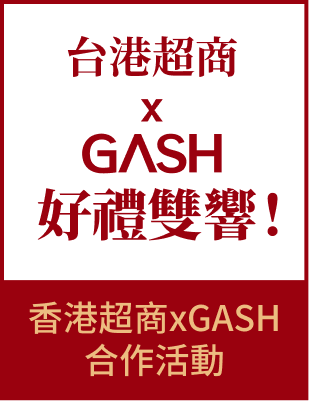
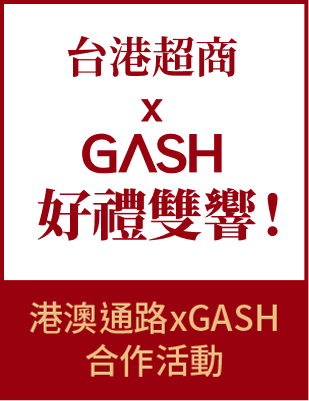
update

Changed region(s): [[0.0874, 0.7481, 0.9029, 0.9576]]

diff --git a/src/index.html b/src/index.html
@@ -52,10 +52,10 @@
       <section>
         <ul>
           <li>
-            <a href="" hash-target="#store">台港超商</a>
+            <span hash-target="#store">台港超商</span>
           </li>
           <li>
-            <a href="" hash-target="#shop">GASH商城</a>
+            <span hash-target="#shop">GASH商城</span>
           </li>
           <li><a href="./gamelist.html" target="_blank">遊戲主打星</a></li>
         </ul>
@@ -179,7 +179,10 @@
             </div>
             <ul>
               <li>
-                【5%點數回贈】兌換限制：每個帳號每個面額限領一次。限定使用指定通路單筆購買之指定GASH點數(500/1000/3000/5000/10000/20000點)、怪物彈珠專用卡(999/1500/2250點)、蒼天英雄誌2專用卡1000點、超異域公主連結增量專用卡(1000/3000點)，並直接儲值至遊戲內，儲值於GASH會員錢包不列入計算。（非港澳通路的點數卡/beanfun!內[GASH點數]服務專區內點數提領/錢包扣點/GASH禮物卡進行儲值均不符合活動資格）活動參與資格依儲值時間與活動辦法為準。
+                本活動限定香港及澳門會員參與，以註冊手機區號為準。需下載beanfun!註冊成為會員並同時綁定「GASH點數服務」方符合資格。
+              </li>
+              <li>
+                【5%點數回贈】兌換限制：每個帳號每個面額限領一次。限定使用指定通路單筆購買之指定GASH點數(1000/3000/5000/10000/20000點)、怪物彈珠專用卡(999/1500/2250點)、蒼天英雄誌2專用卡1000點、超異域公主連結增量專用卡(1000/3000點)，並直接儲值至遊戲內，儲值於GASH會員錢包不列入計算。（非港澳通路的點數卡/beanfun!內[GASH點數]服務專區內點數提領/錢包扣點/GASH禮物卡進行儲值均不符合活動資格）活動參與資格依儲值時間與活動辦法為準。
               </li>
               <li>
                 <p>
@@ -197,7 +200,12 @@
                 <p>如有任何爭議，香港樂點股份有限公司保留最後決定權。</p>
                 <p>
                   如有查詢，請與GASH客服聯絡
-                  http://tw.gashpoint.com/service/custome
+                  <a
+                    href="http://tw.gashpoint.com/service/customer
+                  "
+                    target="_blank"
+                    >http://tw.gashpoint.com/service/customer
+                  </a>
                 </p>
               </li>
             </ul>
@@ -247,7 +255,7 @@
       <div class="content">
         <h3>活動說明</h3>
         <ul>
-          <li>活動期間：2023/1/10 00:00~2023/2/8 23:59止</li>
+          <li>活動期間：2023/1/12 00:00~2023/2/8 23:59止</li>
           <li>
             活動內容：至7-ELEVEN購買GASH點數單筆儲值1000點以上並成功儲值至遊戲內，即可獲得GASH點數刮刮卡一張
             , 30~1萬點GASH點數等你刮!
@@ -282,18 +290,18 @@
       </div>
     </div>
 
-    <div id="store2-2" class="dialog">
+    <div id="store2-1" class="dialog">
       <div class="content">
         <h3>活動說明</h3>
         <ul>
-          <li>活動期間：2023/1/18 12:00~2023/2/1 23:59止</li>
+          <li>活動期間：2023/1/10 12:00~2023/2/1 23:59止</li>
           <li>
-            活動內容：於港澳7-ELEVEN單筆購買並儲值GASH
-            500點以上或指定專用卡，可獲額外5%點數回贈！
+            活動內容：於港澳7-Eleven及OK便利店單筆購買並儲值GASH
+            1000點(含)以上或指定專用卡， 可獲額外5%點數回贈！
             <table>
               <tr>
                 <th>GASH點數</th>
-                <td>1000/3000/5000/10,000/20,000點</td>
+                <td>1000/3000/5000/10,000點</td>
               </tr>
               <tr>
                 <th>指定專用卡</th>
@@ -312,22 +320,21 @@
       </div>
     </div>
 
-    <div id="store2-1" class="dialog">
+    <div id="store2-2" class="dialog">
       <div class="content">
         <h3>活動說明</h3>
         <ul>
           <li>活動期間：2023/1/19 12:00~2023/2/1 23:59止</li>
           <li>
-            活動內容：於港澳OK單筆購買並儲值GASH 500點以上或指定專用卡，
-            可獲額外5%點數回贈！
+            活動內容：於港澳指定通路(<a
+              href="https://tw.gashpoint.com/games/article/4486"
+              target="_blank"
+              >按此查詢</a
+            >)單筆購買並儲值GASH 1000點(含)以上，可獲額外5%點數回贈！
             <table>
               <tr>
                 <th>GASH點數</th>
                 <td>1000/3000/5000/10,000/20,000點</td>
-              </tr>
-              <tr>
-                <th>指定專用卡</th>
-                <td>怪物彈珠、蒼天英雄誌2、超異域公主連結</td>
               </tr>
             </table>
             <p>
@@ -355,19 +362,16 @@
             <p>
               <span>★開運驚喜紅包</span>
               於GASH商城購買【GASH點數卡
-              999點(含)以上商品及新楓之谷專用卡怪物彈珠專用卡全品項】立即贈商城優惠碼88元
-              (後台設定結帳後直接派；限下次結帳使用；共20000組)
+              999點(含)以上商品及新楓之谷專用卡怪物彈珠專用卡全品項】立即贈商城優惠碼88元(數量有限送完為止)
             </p>
             <p>
               <span>★玉兔迎春紅包</span>
-              於GASH商城購買【GASH點數卡
-              999點(含)以上商品及新楓之谷專用卡怪物彈珠專用卡全品項】立即贈商城優惠碼88元
-              (後台設定結帳後直接派；限下次結帳使用；共20000組)
+              活動期間單筆結帳滿8888加碼再抽GASH1-888點 (限666名)
+              <br />(活動結束後派獎；限量666名，一個會員限一次)
             </p>
             <p>
               <span>★鴻運當頭紅包</span>
-              活動期間於GASH商城累積消費滿88888元 加碼再抽iPhone 13 pro
-              乙台(實體獎項活動結束抽獎後派)
+              活動期間於GASH商城累積消費滿88888元 加碼再抽iPhone 13 pro 乙台
             </p>
           </li>
         </ul>
@@ -414,13 +418,13 @@
             獎品內容：
             <p>
               <span>①港澳GASH商城新春限定優惠碼</span>
-              於港澳GASH商城單筆購買滿HK$500， 使用優惠碼「HKCNY10」即減HK$10
+              單筆購買滿HK$500， 使用優惠碼「HKCNY10」即減HK$10
             </p>
             <p>
               <span>②港澳GASH商城多品項限時優惠</span>
-              遊戲專用卡95折優惠
             </p>
             <ul>
+              <li>遊戲專用卡95折優惠</li>
               <li>BitCash全面額限時85折優惠！</li>
               <li>Steam, GooglePlay, iTunes, PSN, XBOX 禮物卡限時特價！</li>
             </ul>

diff --git a/src/css/style.css b/src/css/style.css
@@ -307,13 +307,22 @@ nav ul {
   align-items: center;
   padding: 0 var(--gutter);
 }
-nav a {
+nav a,
+nav span {
   color: var(--primary);
   font-size: 1.25rem;
   font-weight: 800;
   background: var(--red);
   padding: 0.5rem 0.5rem;
   border-radius: 0.5rem;
+  cursor: pointer;
+  transition: all 0.2s;
+}
+nav a:hover, nav a.active,
+nav span:hover,
+nav span.active {
+  background-color: var(--darkred);
+  color: white;
 }
 
 @media (min-width: 720px) {
@@ -415,6 +424,12 @@ main .shadow::after {
 }
 .note-footer {
   transform: scaleY(-1);
+}
+.note a {
+  display: inline-block;
+  margin: 0 2px;
+  color: inherit;
+  text-decoration: underline;
 }
 
 .main-info {
@@ -911,6 +926,14 @@ footer p {
   position: absolute;
   left: 0;
   top: 0;
+}
+.dialog ul a {
+  display: inline-block;
+  margin: 0 2px;
+  text-decoration: underline;
+  color: inherit;
+  outline: 0 !important;
+  color: var(--darkred);
 }
 .dialog table {
   border-collapse: collapse;

diff --git a/src/js/index.js b/src/js/index.js
@@ -1,6 +1,6 @@
 const $ = (e) => document.querySelector(e);
 const lanterns = document.querySelectorAll(".shop span");
-const links = document.querySelectorAll("a[hash-target]");
+const links = document.querySelectorAll("span[hash-target]");
 
 lanterns.forEach((item) => {
   item.addEventListener("mouseover", function () {
@@ -31,6 +31,9 @@ links.forEach((link) => {
     const target = $(link.getAttribute("hash-target"));
     const navHeight = $("nav").offsetHeight;
     const distance = target.offsetTop - navHeight;
+
+    links.forEach((item) => item.classList.remove("active"));
+    link.classList.add("active");
 
     window.scroll({
       top: distance,

diff --git a/src/css/_nav.scss b/src/css/_nav.scss
@@ -20,13 +20,22 @@ nav {
     padding: 0 var(--gutter);
   }
 
-  a {
+  a,
+  span {
     color: var(--primary);
     font-size: 1.25rem;
     font-weight: 800;
     background: var(--red);
     padding: 0.5rem 0.5rem;
     border-radius: 0.5rem;
+    cursor: pointer;
+    transition: all 0.2s;
+
+    &:hover,
+    &.active {
+      background-color: var(--darkred);
+      color: white;
+    }
   }
 }
 

diff --git a/src/css/_dialog.scss b/src/css/_dialog.scss
@@ -38,6 +38,15 @@
         top: 0;
       }
     }
+
+    a {
+      display: inline-block;
+      margin: 0 2px;
+      text-decoration: underline;
+      color: inherit;
+      outline: 0 !important;
+      color: var(--darkred);
+    }
   }
 
   table {

diff --git a/src/css/_main.scss b/src/css/_main.scss
@@ -105,6 +105,13 @@ main {
   &-footer {
     transform: scaleY(-1);
   }
+
+  a {
+    display: inline-block;
+    margin: 0 2px;
+    color: inherit;
+    text-decoration: underline;
+  }
 }
 
 .main-info {
